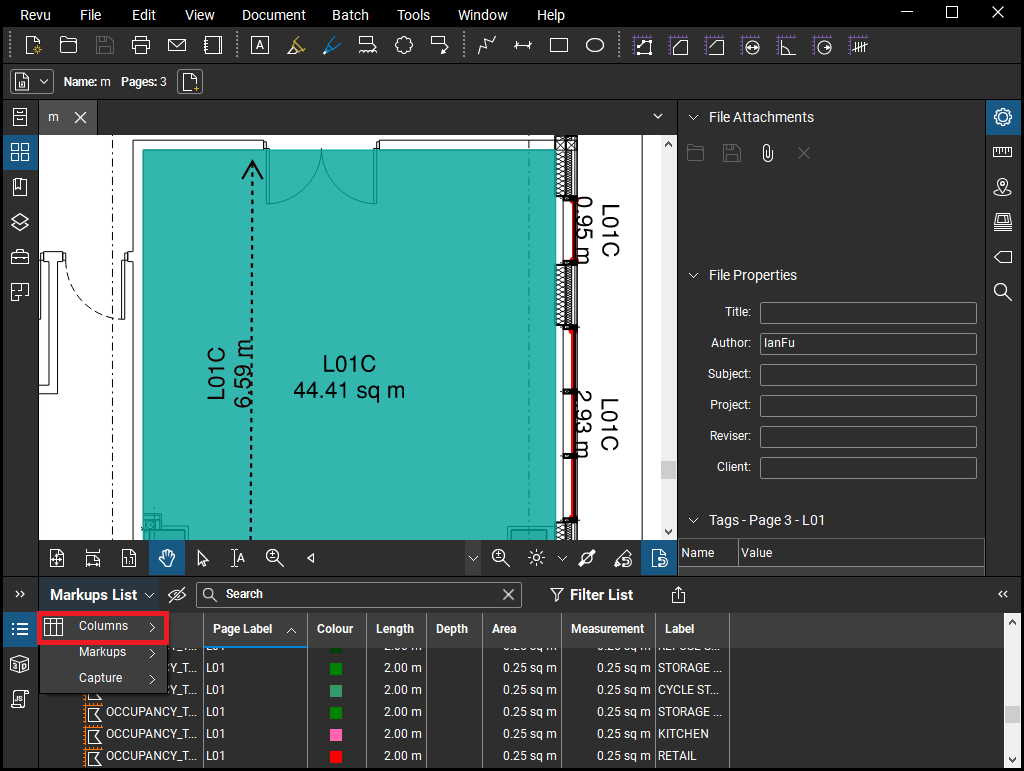
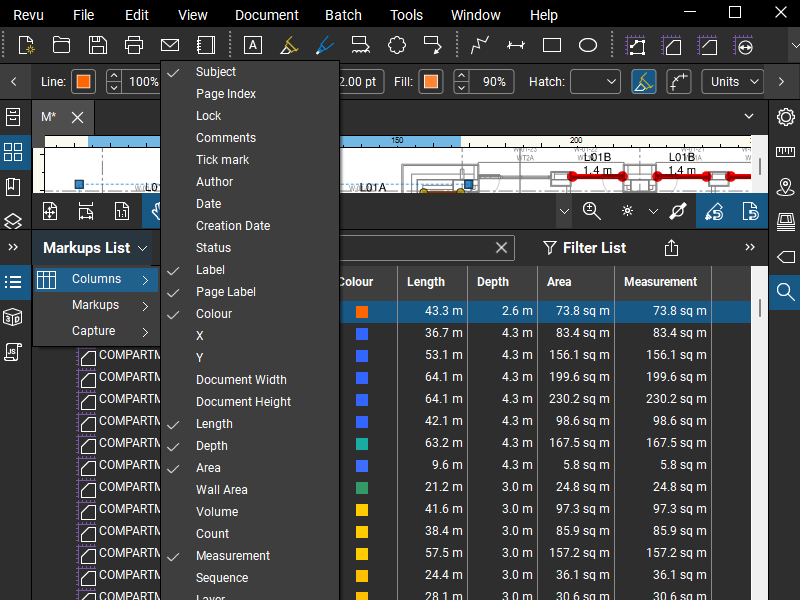
Added content and updated images.

diff --git a/source/pra/prapy-pre/index.rst b/source/pra/prapy-pre/index.rst
@@ -18,65 +18,74 @@ Where
 
 The process involves the following key steps:
 
-#. Prepare Bluebeam markups.
-#. Export the Bluebeam markups to a file, usually named `m.csv`.
-#. Prepare a database file, usually named `d.xlsx`.
-#. Produce a SFEPRAPY input file by using FSETools.
+#. :ref:`Prepare Bluebeam markups <section-sfepra-pre-markups>`.
+#. :ref:`Export the Bluebeam markups to a file <section-sfepra-pre-measurements>`, usually named `m.csv`.
+#. :ref:`Prepare a database file <section-sfepra-pre-database>`, usually named `d.xlsx`.
+#. :ref:`Produce a SFEPRAPY input file <section-sfepra-pre-input_file>` by using FSETools.
 
-To Prepare Bluebeam Markup
-==========================
+.. _section-sfepra-pre-markups:
+
+Prepare Bluebeam Markup
+=======================
 
 Occupancy Type
 --------------
 
-.. warning::
-    Work in progress
+.. image:: OCCUPANCY_TYPE-create.png
+    :alt: create OCCUPANCY_TYPE
+    :width: 80%
 
 Compartment
 -----------
 
 Markup a fire compartment by using area measurement in Bluebeam. Ensure the following are set appropriately:
 
-- Subject should be COMPARTMENT to hint this object is used to indicate a fire compartment.
-- Label should be a string to represent the associated case name (i.e., simulation case name in SFEPRAPY).
-- Depth should be set as the room (floor to soffit) height.
-- Color should match the occupancy characteristics as defined in Section 4.1.
+* Subject should be COMPARTMENT to hint this object is used to indicate a fire compartment.
+* Label should be a string to represent the associated case name (i.e., simulation case name in SFEPRAPY).
+* Depth should be set as the room (floor to soffit) height.
+* Color should match the occupancy characteristics as defined in Section 4.1.
 
 Case name (i.e. Label) should be unique among all COMPARTMENT objects.
 
 .. image:: COMPARTMENT-create.png
-  :alt: create COMPARTMENT
+    :alt: create COMPARTMENT
+    :width: 80%
 
 Fire Spread Path
 ----------------
 
 Markup a fire travel path (or room depth) by using area measurement in Bluebeam. Ensure the following are set appropriately:
 
-- Subject should be COMPARTMENT_LENGTH to hint this object is used to indicate a fire travel path (or room depth).
-- Label should be a string to represent the associated case name (i.e., simulation case name in SFEPRAPY).
+* Subject should be COMPARTMENT_LENGTH to hint this object is used to indicate a fire travel path (or room depth).
+* Label should be a string to represent the associated case name (i.e., simulation case name in SFEPRAPY).
 
 A compartment (or case name) can only have one COMPARTMENT_LENGTH.
 
 .. image:: COMPARTMENT_LENGTH-create.png
-  :alt: create COMPARTMENT_LENGTH
+    :alt: create COMPARTMENT_LENGTH
+    :width: 80%
 
 Window
 ------
 
 Markup a fire compartment by using area measurement in Bluebeam. Ensure the following are set appropriately:
--	Subject should be WINDOW (or DOOR) to hint this object is used to indicate a window opening (or a door opening).
--	Label should be a string to represent the associated case name (i.e., simulation case name in SFEPRAPY).
--	Depth should be the window (or door) clear opening height.
+
+* Subject should be WINDOW (or DOOR) to hint this object is used to indicate a window opening (or a door opening).
+* Label should be a string to represent the associated case name (i.e., simulation case name in SFEPRAPY).
+* Depth should be the window (or door) clear opening height.
 
 Ensure all ventilation openings are appropriately marked up.
 
 .. image:: WINDOW-create.png
-  :alt: create WINDOW
+    :alt: create WINDOW
+    :width: 80%
 
 Door
 ----
 
-todo
+.. image:: DOOR-create.png
+    :alt: create DOOR
+    :width: 80%
 
 Special Circumstances
 ---------------------
@@ -84,36 +93,51 @@ Special Circumstances
 Repeated Compartments
 ~~~~~~~~~~~~~~~~~~~~~
 
-todo
+Only one simulation case is necessary for compartments share similar/identical geometry and ventilation arrangements.
+Once a base case is measured, the repeated compartments only needs to measure the floor area (i.e. Compartment) with its
+name/label identical to the base case but with a trailing underscore. Below shows an example.
+
+.. image:: repeated-compartments.png
+    :alt: Repeated compartments
+    :width: 80%
 
 Repeated Floors
 ~~~~~~~~~~~~~~~
 
-Where a floor plate repeats for example on levels 3 to 10 the drawing sheet for this can be named “L03-L10”
+Where a floor plate repeats for example on levels one to ten the drawing sheet for this can be named “L01-L10”
 
-.. image:: duplicated_levels.png
-  :alt: Duplicated levels
+.. image:: repeated-levels.png
+    :alt: Repeated levels
+    :width: 80%
 
-To Export Bluebeam Markup data
-==============================
+.. _section-sfepra-pre-measurements:
+
+Export Bluebeam Markup Data
+===========================
 
 Ensure the following headers are made visible when exporting.
 
 .. image:: MEASUREMENT_FILE-required_columns.png
-  :alt: MEASUREMENT_FILE required columns
-
-To toggle headers for exporting:
+    :alt: MEASUREMENT_FILE required columns
+    :width: 80%
 
 .. image:: MEASUREMENT_FILE-toggle_columns.png
-  :alt: MEASUREMENT_FILE toggle columns
+    :alt: MEASUREMENT_FILE toggle columns
+    :width: 80%
 
-To Prepare Database File
-========================
+.. _section-sfepra-pre-database:
 
-A database “d” file containing design fire input parameters for the different occupancy types is required. Ieuan or Ian can give you an example file to use and a template will be uploaded.
+Prepare Database File
+=====================
 
-To Produce SFEPRAPY Input File
-==============================
+A database file (usually named `d.xlsx`) containing design fire input parameters for the different occupancy types is
+required. Contact Ian  or Ieuan to obtain a template database file.
+
+
+.. _section-sfepra-pre-input_file:
+
+Produce SFEPRAPY Input File
+===========================
 
 This step is fairly straight forward, select the `d.xlsx` and `m.csv` then click `Submit` button. Then the resultant
 SFEPRAPY input file will be saved under the same folder containing `m.csv`.
@@ -122,7 +146,8 @@ If no file is produced then it is likely that there are errors in the `d.xlsx` o
 Console (View -> Console). In the example below, compartment length is missing for compartment (simulation case) `L01B`.
 
 .. image:: debug.png
-  :alt: Debug
+    :alt: Debug
+    :width: 80%
 
 .. important::
 
